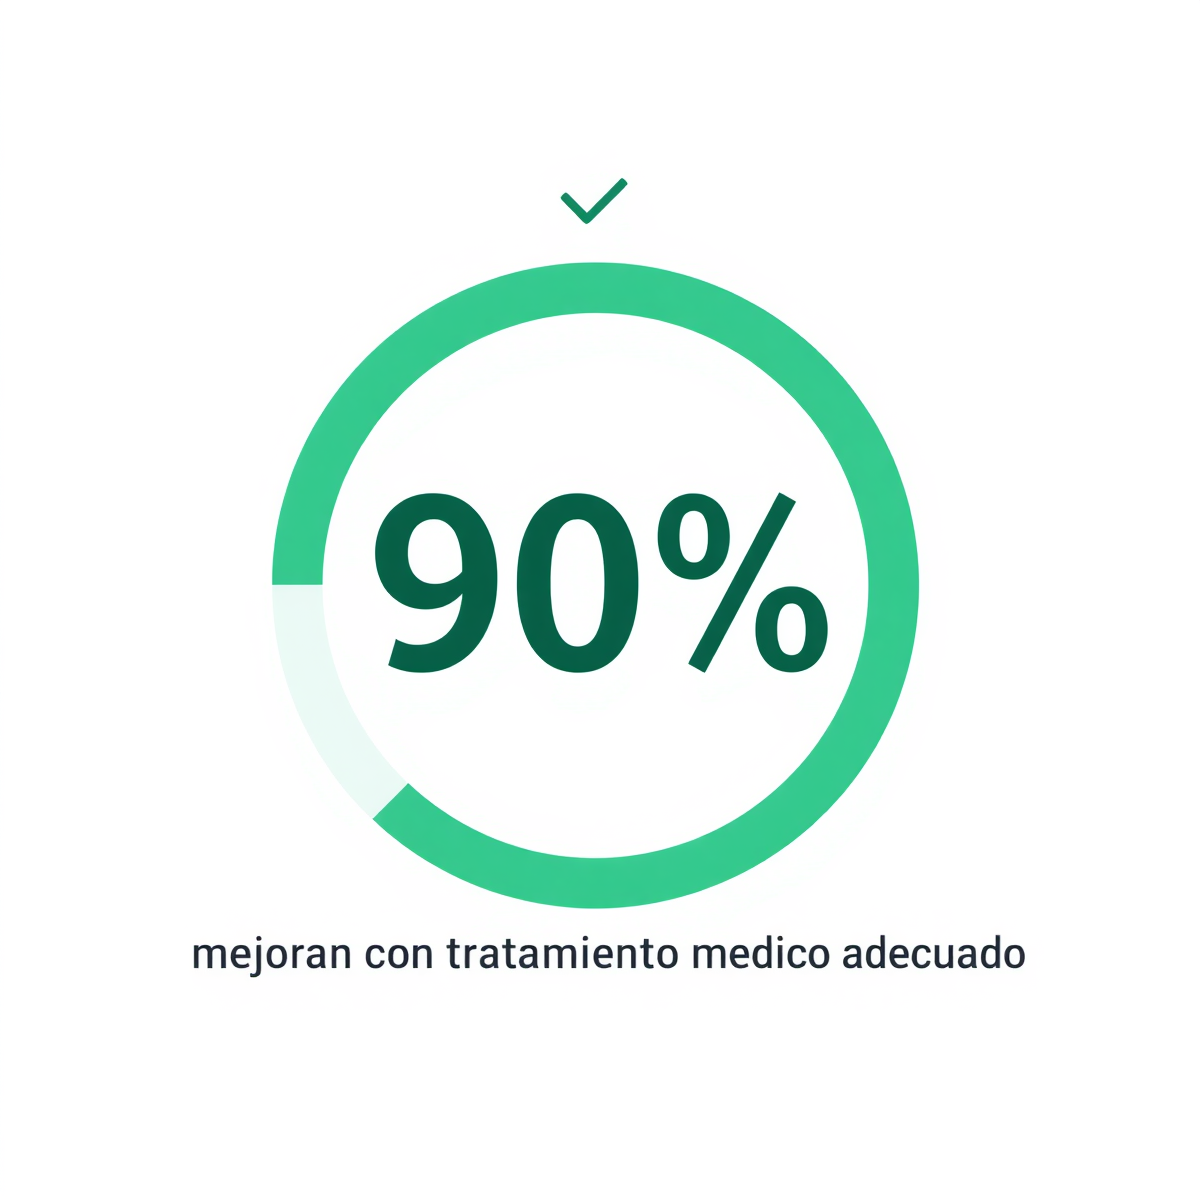
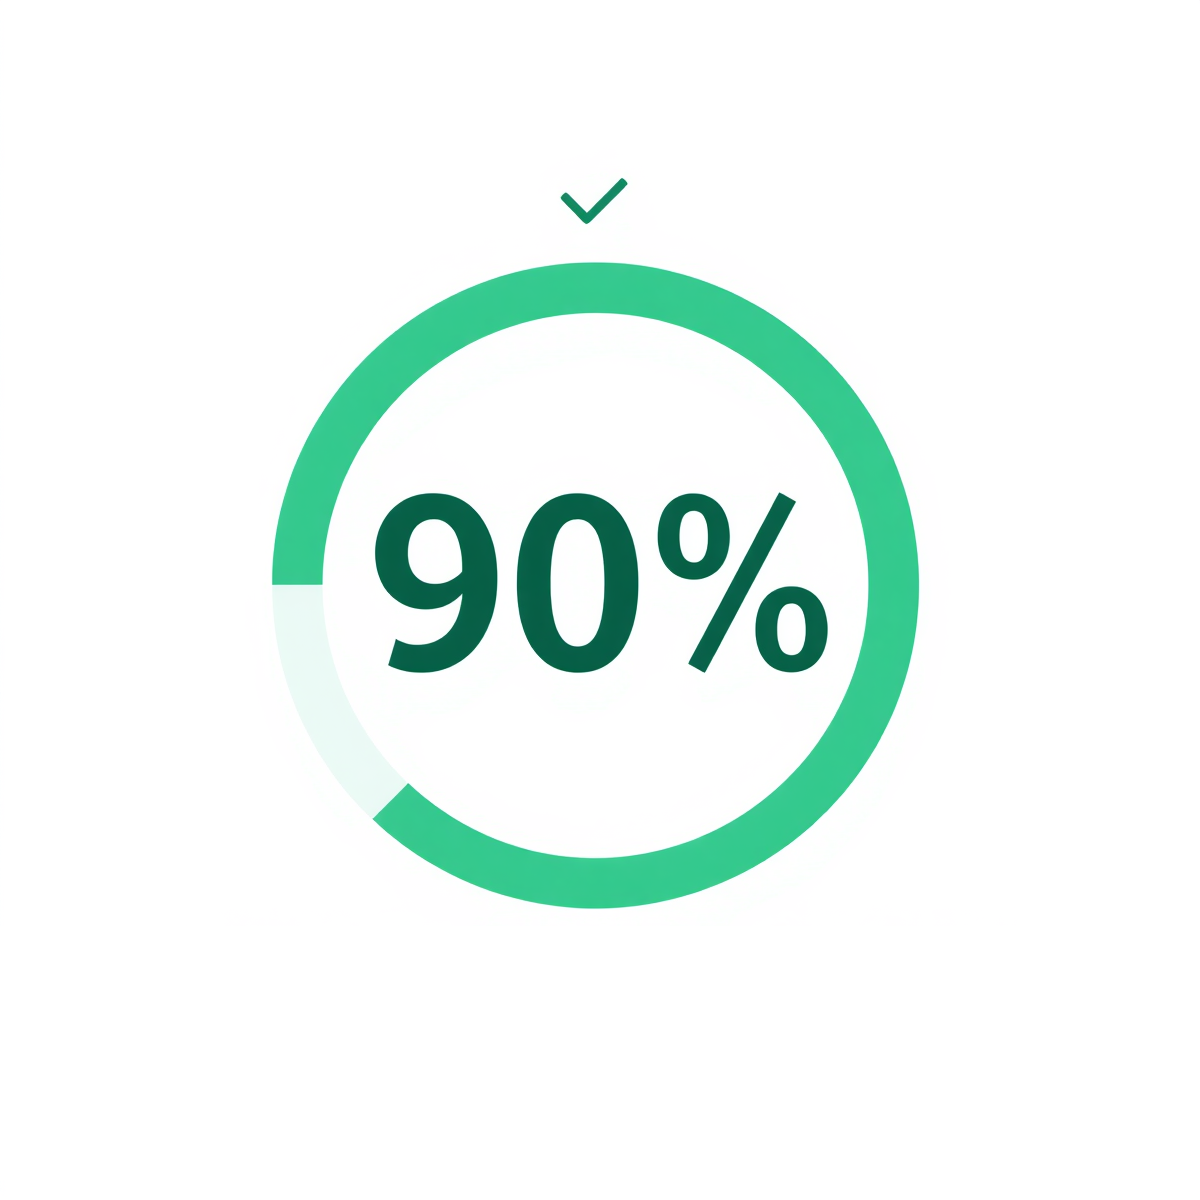
Corregir imagenes e iconos de landing dolor lumbar

Changed region(s): [[0.1542, 0.7708, 0.8633, 0.8325]]

diff --git a/dolor-lumbar-ciatica.html b/dolor-lumbar-ciatica.html
@@ -373,13 +373,13 @@
         <!-- Lista de causas con iconos generados -->
         <div class="causes-list-pro">
           
-         <!-- Causa 1: Malas posturas / hábitos-->
+         <!-- Causa 1: Malas posturas-->
          <article class="cause-card-pro" data-cause="mobility">
           <div class="cause-icon-container green-gradient">
             <img src="assets/ icono-falta-movilidad.png" alt="" width="40" height="40" loading="lazy">
           </div>
           <div class="cause-text">
-            <h4 class="cause-title">Hábitos deficientes</h4>
+            <h4 class="cause-title">Malas posturas o cuidado de columna</h4>
             <p class="cause-description">Higiene de columna deficiente, Sedentarismo o inactividad prolongada</p>
           </div>
         </article>
